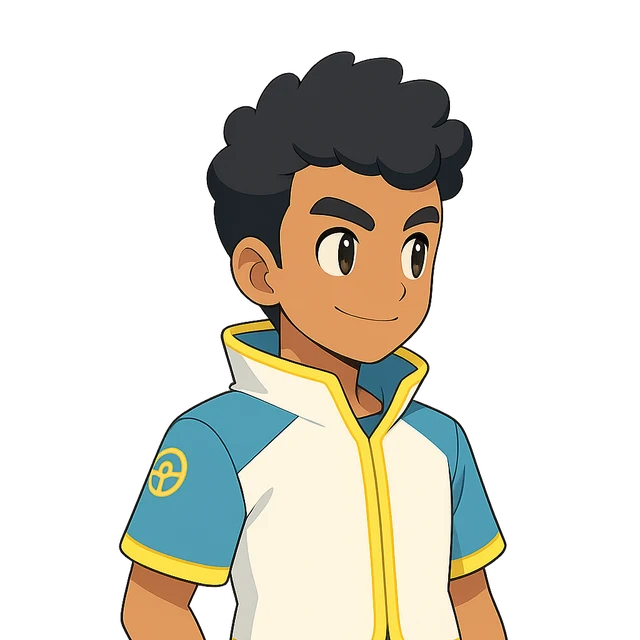
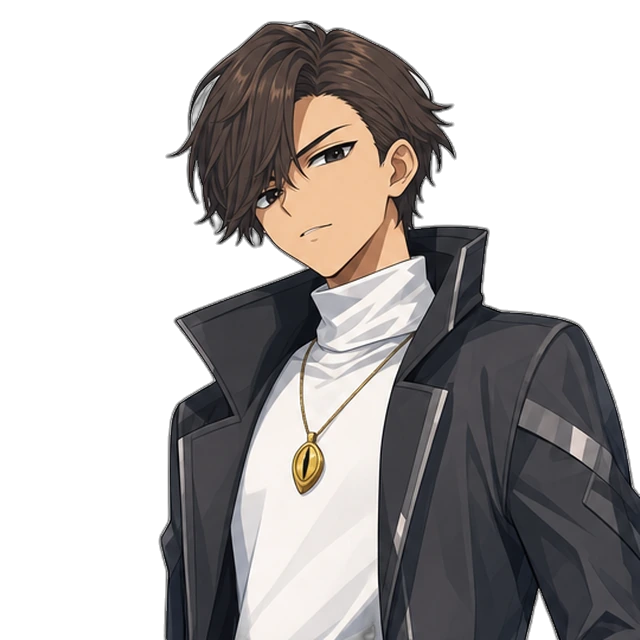
白い都の坂で主人公が隠れないように・レンの顔絵を新デザインに・仲間の演出は一度だけ・進化と融合の条件を勝負で表示・融合を覚えた演出
- 坂の見晴らしカメラを高く近くに、柱廊を短く、透かしを広く
- レン(dimi)の会話の顔を ren_決定.png から作り直し
- 仲間に入る演出は抜けて戻っても二度と出さない
- 進化ボタン・詳細・進化のマスで、覚えていないわけ(Lv6で覚える等)を出す
- 連れの子(アレクのクロッコ)もLvで覚えた進化を使える
- 物語の勝負で初めて使える融合を、勝負の前に演出で知らせる

Claude-Session: https://claude.ai/code/session_01GpeKDhxNssKAGTgsZyP1St

diff --git a/proto/world_v2/proto/greece_town.html b/proto/world_v2/proto/greece_town.html
@@ -510,7 +510,7 @@ function patchLit(m,key,o){ o=o||{};
     sh.uniforms.uHeroF=U.uHero; sh.uniforms.uResY=U.uResY;
     sh.fragmentShader=sh.fragmentShader.replace('#include <common>','#include <common>\nvarying vec3 vWq; uniform vec3 uHeroF; uniform float uResY;').replace('#include <clipping_planes_fragment>',`#include <clipping_planes_fragment>
       { float cd=distance(vWq,cameraPosition); vec3 ch=uHeroF+vec3(0.0,0.8,0.0)-cameraPosition; float L=length(ch); vec3 dir=ch/max(L,0.001); float t=dot(vWq-cameraPosition,dir);
-        float seg=length(vWq-cameraPosition-dir*clamp(t,0.0,L)); float k=max(1.0-smoothstep(1.2,3.2,cd), (t>0.0&&t<L-2.2)?(1.0-smoothstep(1.3,3.0,seg))*smoothstep(-0.2,1.0,vWq.y-uHeroF.y):0.0); k=max(k,(1.0-smoothstep(0.04,0.2,gl_FragCoord.y/uResY))*smoothstep(1.6,3.2,vWq.y-uHeroF.y)*0.92);
+        float seg=length(vWq-cameraPosition-dir*clamp(t,0.0,L)); float k=max(1.0-smoothstep(1.2,3.2,cd), (t>0.0&&t<L-1.1)?(1.0-smoothstep(1.6,3.4,seg))*smoothstep(-0.2,1.0,vWq.y-uHeroF.y):0.0); k=max(k,(1.0-smoothstep(0.04,0.2,gl_FragCoord.y/uResY))*smoothstep(1.6,3.2,vWq.y-uHeroF.y)*0.92);
         ${o.noDither?'k=0.0;':''}if(k>0.0){ vec2 q=mod(floor(gl_FragCoord.xy),4.0); float b=mod(q.x*8.0+q.y*4.0+mod(q.x+q.y,2.0)*2.0+q.x*q.y,16.0)/16.0; if(k*0.9>b) discard; } }`);
     sh.fragmentShader=sh.fragmentShader.replace('* getShadowMask()','* (0.30+0.70*getShadowMask())');
     if(o.front) sh.fragmentShader=sh.fragmentShader.split('gl_FrontFacing').join('true');
@@ -2286,8 +2286,7 @@ let EVOFX=false, evoFxT=0;
 function evoFxTick(dt){ evoFxT-=dt; if(evoFxT>0) return; evoFxT=0.5; if(EVOFX||STORY||TRANS||ENC||PAUSED||!SAVE||TESTMODE&&!SAVE) return; const P=window.Progress; if(!P||!P.evoAvail||!P.state||!P.state()) return;
   const av=P.evoAvail(); if(!SAVE.evoFx){ SAVE.evoFx={}; for(const id of av) SAVE.evoFx[id]=1; return; }   // 前からのセーブ: 今できる分は見せたことにする
   const id=av.find(x=>!SAVE.evoFx[x]); if(id==null) return; SAVE.evoFx[id]=1; saveGame(); evoFxShow(id); }
-function evoFxShow(to){ const P=window.Progress; const ln=P.lineOf(to); const from=ln[Math.max(0,ln.indexOf(+to)-1)]; EVOFX=true; const wasP=PAUSED; PAUSED=true; IN.active=false;
-  if(!document.getElementById('evoFxCss')){ const st=document.createElement('style'); st.id='evoFxCss'; st.textContent=`
+function evoFxCss(){ if(document.getElementById('evoFxCss')) return; const st=document.createElement('style'); st.id='evoFxCss'; st.textContent=`
 #evoFx{position:fixed;inset:0;z-index:9000;display:flex;flex-direction:column;align-items:center;justify-content:center;gap:18px;background:radial-gradient(circle at 50% 45%,#3a2a10 0%,#120c1e 55%,#05040a 100%);opacity:0;transition:opacity .35s;overflow:hidden;font-family:inherit}
 #evoFx.on{opacity:1}
 #evoFx .st{position:relative;width:min(62vw,300px);height:min(62vw,300px)}
@@ -2309,6 +2308,27 @@ function evoFxShow(to){ const P=window.Progress; const ln=P.lineOf(to); const fr
 @keyframes evW{0%{opacity:.95}100%{opacity:0}}
 @keyframes evT{to{opacity:1}}
 @keyframes evS{0%{opacity:0;transform:translate(0,0) scale(.4)}20%{opacity:1}100%{opacity:0;transform:translate(var(--dx),var(--dy)) scale(1)}}`; document.head.appendChild(st); }
+// ---- 融合を覚えた時の演出(2026-11-17 オーナー「融合を覚えたというのもエフェクトを出さないと。実際にできるかわからない」) ----
+//  物語の勝負で初めて使える融合(GR_FIGHTS の fuse)を、勝負の前に一度だけ見せる。素材2体が寄って光り、融合体になる。見せた印=SAVE.fuseFx
+function fuseFxShow(fid){ return new Promise(res=>{ const P=window.Progress; const m=P&&P.mon(fid); if(!m){ res(); return; } const mats=(m.recipe3||m.recipe||m.fusion_from||[]).slice(0,3); if(mats.length<2){ res(); return; }
+  evoFxCss(); if(!document.getElementById('fuseFxCss')){ const st=document.createElement('style'); st.id='fuseFxCss'; st.textContent=`
+#evoFx .fm{position:absolute;top:18%;width:56%;height:56%;object-fit:contain}
+#evoFx .fl{left:-14%;animation:fuL 2.4s ease-in forwards}
+#evoFx .fr{right:-14%;animation:fuR 2.4s ease-in forwards}
+@keyframes fuL{0%{transform:translateX(0)}55%{transform:translateX(18%);filter:brightness(1.5) drop-shadow(0 0 16px #9fd8ff)}88%{transform:translateX(38%);filter:brightness(0) invert(1);opacity:1}100%{transform:translateX(40%);filter:brightness(0) invert(1);opacity:0}}
+@keyframes fuR{0%{transform:translateX(0)}55%{transform:translateX(-18%);filter:brightness(1.5) drop-shadow(0 0 16px #ffb0e0)}88%{transform:translateX(-38%);filter:brightness(0) invert(1);opacity:1}100%{transform:translateX(-40%);filter:brightness(0) invert(1);opacity:0}}`; document.head.appendChild(st); }
+  EVOFX=true; const wasP=PAUSED; PAUSED=true; IN.active=false; const img=id=>P.img(id);
+  const W=document.createElement('div'); W.id='evoFx'; W.style.background='radial-gradient(circle at 50% 45%,#16304a 0%,#120c1e 55%,#05040a 100%)';
+  const nm=mats.map(x=>monName(x));
+  W.innerHTML=`<div class="st"><div class="ray"></div><img class="fm fl" src="${img(mats[0])}" alt=""><img class="fm fr" src="${img(mats[1])}" alt=""><img class="b" src="${img(fid)}" alt=""><div class="ring"></div></div><div class="tx">${nm.join('と')}の<br>融合を覚えた！<small>勝負の中で、2段目の${nm.join('と')}を<br>となりのマスに重ねると ${monName(fid)}になる<br>（どちらかが その勝負の中で進化していること）</small></div><div class="go">タップでとじる</div><div class="wh"></div>`;
+  const stg=W.querySelector('.st'); for(let k=0;k<22;k++){ const d=document.createElement('i'); d.className='sp'; const a=Math.random()*Math.PI*2, r=90+Math.random()*120; d.style.cssText=`left:50%;top:50%;--dx:${Math.cos(a)*r}px;--dy:${Math.sin(a)*r}px;animation:evS ${1+Math.random()*0.8}s ease-out ${2.2+Math.random()*0.5}s forwards`; stg.appendChild(d); }
+  document.body.appendChild(W); requestAnimationFrame(()=>W.classList.add('on')); setTimeout(()=>{ const bi=W.querySelector('.b'); if(bi) bi.classList.add('col'); },2700);
+  try{ if(typeof seBeep==='function') seBeep('lvup'); }catch(e){}
+  const t0=performance.now(); const close=e=>{ if(e) e.stopPropagation(); if(performance.now()-t0<3600) return; W.classList.remove('on'); setTimeout(()=>{ W.remove(); EVOFX=false; PAUSED=wasP; LAST=performance.now(); res(); },360); };
+  for(const ev of ['pointerdown','touchstart']) W.addEventListener(ev,e=>e.stopPropagation()); W.addEventListener('click',close); }); }
+async function grFuseFx(F){ if(!SAVE||!F||!F.fuse||!F.fuse.length) return; SAVE.fuseFx=SAVE.fuseFx||{}; for(const fid of F.fuse){ if(SAVE.fuseFx[fid]) continue; SAVE.fuseFx[fid]=1; saveGame(); await fuseFxShow(fid); } }
+function evoFxShow(to){ const P=window.Progress; const ln=P.lineOf(to); const from=ln[Math.max(0,ln.indexOf(+to)-1)]; EVOFX=true; const wasP=PAUSED; PAUSED=true; IN.active=false;
+  evoFxCss();
   const W=document.createElement('div'); W.id='evoFx'; const img=id=>P.img(id);
   W.innerHTML=`<div class="st"><div class="ray"></div><img class="a" src="${img(from)}" alt=""><img class="b" src="${img(to)}" alt=""><div class="ring"></div></div><div class="tx">${monName(from)}は ${monName(to)}への<br>進化を覚えた！<small>勝負の中で ${monName(to)}に進化できる</small></div><div class="go">タップでとじる</div><div class="wh"></div>`;
   const stg=W.querySelector('.st'); for(let k=0;k<22;k++){ const d=document.createElement('i'); d.className='sp'; const a=Math.random()*Math.PI*2, r=90+Math.random()*120; d.style.cssText=`left:50%;top:50%;--dx:${Math.cos(a)*r}px;--dy:${Math.sin(a)*r}px;animation:evS ${1+Math.random()*0.8}s ease-out ${2.2+Math.random()*0.5}s forwards`; stg.appendChild(d); }
@@ -2664,9 +2684,9 @@ const ST={el:$('st'),bg:$('stBg'),L:$('stL'),R:$('stR'),R2:$('stR2'),ph:$('stPh'
 const PDIR='../v3/portraits/';
 const E7=['normal','smile','surprised','serious','sad','angry','hurt'];
 const FACES={hero_m:E7,hero_f:E7,genichi:['normal'],misaki:['normal','smile'],hana:['normal'],ryo:['normal'],
-  elly:['normal','smile','surprised','sad','serious'],alek:['normal'],dimi:['normal','smile','surprised','serious'],elena:['normal','smile','serious'],tasos:['normal','smile','surprised'],petra:['normal','smile','surprised'],stavros:['normal','smile','serious'],
+  elly:['normal','smile','surprised','sad','serious'],alek:['normal'],dimi:['normal'],elena:['normal','smile','serious'],tasos:['normal','smile','surprised'],petra:['normal','smile','surprised'],stavros:['normal','smile','serious'],
   kasia:['normal'],zeno:['normal'],hao:['normal'],tarik:['normal'],victor:['normal'],nina:['normal'],marco:['normal']};   // 2026-11-08 アニメ側の立ち絵(キャラ立ち絵_追加_20261108)を v3/portraits に足した(白い背景を外して胸から上)
-// 立ち絵の鍵: elly=エリー(anime/chars/elly)・alek=アレク(anime/chars/alek)・dimi=レン(絵は dimi のまま)・stavros=ヤニス(絵は仮)。patch/log/x は絵なし(名前だけ)
+// 立ち絵の鍵: elly=エリー(anime/chars/elly)・alek=アレク(anime/chars/alek)・dimi=レン(絵は11/17に新デザインの顔へ)・stavros=ヤニス(絵は仮)。patch/log/x は絵なし(名前だけ)
 const WHO={genichi:'じいちゃん',misaki:'母',hana:'ハナ',ryo:'父',elly:'エリー',alek:'アレク',dimi:'レン',elena:'クロエ博士',tasos:'タソス',petra:'ペトラ',stavros:'ヤニス',patch:'パッチ',log:'ログ',mihalis:'ミハリス',sophia:'ソフィア',bella:'ベラドンナ',yusuf:'ユスフ',hao:'ハオ',lifa:'リーファ',ransom:'ランサム',shifu:'師範',x:''};   // 中国編(2026-10-26): ハオ・リーファ・ランサム・師範は絵なし(名前だけ)
 Object.assign(WHO,{nadia:'ナディア',mira:'ミラ',joe:'ジョー',liv:'リヴ',bot:'ボット',yuki:'ユキ',haru:'ハル',adrian:'スペクター'});   // 北欧編(2026-10-27): 絵なし(名前だけ)
 const DEFN=g=>'ヤマト';   // 主人公はヤマトだけ(女の子版 hero_f は使わない)
@@ -3624,7 +3644,7 @@ window.GR_FR_DBG=()=>GR_FRS&&{x:GR_FRS.x,z:GR_FRS.z,st:GR_FRS.st,pi:GR_FRS.pi,n:
 const GR_CREW={elly:ep=>(ep>=2&&ep<=13)||ep>=18, alek:ep=>ep>=5};
 function grCrewTick(s){ if(!SAVE||!s||EVOFX||STORY||TRANS||ENC||PAUSED) return; const ep=+s.ep||0; if(!ep) return;
   if(!SAVE.crew){ SAVE.crew={}; for(const w in GR_CREW) if(GR_CREW[w](ep)) SAVE.crew[w]=1; return; }   // 前からのセーブ: 今の連れは見せたことにする
-  for(const w in GR_CREW){ const inn=GR_CREW[w](ep); if(!inn&&SAVE.crew[w]){ delete SAVE.crew[w]; continue; }
+  for(const w in GR_CREW){ const inn=GR_CREW[w](ep);   // 一度見せたら二度と出さない(抜けて戻っても出さない 2026-11-17 オーナー「毎回ださなくてもわかる」)
     if(inn&&!SAVE.crew[w]&&(w!=='elly'||grEllyWith(s))){ SAVE.crew[w]=1; saveGame(); crewFxShow(w); return; } } }
 function crewFxShow(who){ const A=GR_GUIDE_ART[who]; if(!A) return; EVOFX=true; const wasP=PAUSED; PAUSED=true; IN.active=false;
   if(!document.getElementById('crewFxCss')){ const st=document.createElement('style'); st.id='crewFxCss'; st.textContent=`
@@ -3685,6 +3705,7 @@ function grBond(){ if(!SAVE) return; const f=SAVE.flags;
 async function grFight(s){ const F=s.F; F._ep=s.ep; const say=GR_SAY[s.ep];
   if(!SAVE.flags.gr_bond) grBond();
   if(say&&!GF()['seen_'+s.id]){ bgmCue('idea'); await runScene([{w:say[0],f:say[1],t:say[2]}],{field:true}); SAVE.flags['seen_'+s.id]=1; }
+  await grFuseFx(F);   // 2026-11-17 初めて使える融合を、勝負の前に演出で知らせる
   GR_TEAM=await grPickTeam(s);
   const stop=grInbStart(s.ep);
   try{
@@ -3733,7 +3754,7 @@ function grFightOpt(opt,F){ const lv=F.lv; if(!opt.player) opt.player={}; let pa
     for(const e of EX){ let q=MN(e.mid), g=0; while(q&&q.evolves_to!=null&&g++<4){ if(!ow.has(+q.evolves_to)) break; exOwn.push(+q.evolves_to); q=MN(q.evolves_to); } } }
   party.length=0; L.forEach(p=>party.push(p)); EX.forEach(p=>party.push(p));
   opt.player.owned=[...new Set(L.map(p=>p.mid).concat(F.own||[]).concat(EX.map(p=>p.mid)).concat(exOwn))];
-  { const P=window.Progress; if(P&&P.formsList&&P.lineOf&&P.knowsForm&&!(SAVE&&SAVE.unlock&&!SAVE.unlock.evo)){ const lines=new Set(L.concat(EX).map(p=>+P.baseOf(+p.mid))); const add=P.formsList().filter(id=>lines.has(+P.baseOf(+id))&&P.knowsForm(id)); if(add.length) opt.player.owned=[...new Set(opt.player.owned.concat(add))]; } }   // 2026-11-17 オーナー「Lv12でフォルレオンに進化したのに進化できない」: 物語の勝負でも、Lvで覚えた進化の姿は使える opt.player.fusionKnown=(F.fuse||[]).slice(); opt.player.stageFree=true;
+  { const P=window.Progress; if(P&&P.formsList&&P.lineOf&&P.knowsForm&&!(SAVE&&SAVE.unlock&&!SAVE.unlock.evo)){ const lines=new Set(L.concat(EX).map(p=>+P.baseOf(+p.mid))); const add=P.formsList().filter(id=>lines.has(+P.baseOf(+id))&&P.knowsForm(id)); for(const p of L) if(P.evoLv) for(const id of P.lineOf(+p.mid)){ const nd=P.evoLv(id); if(nd&&(+p.lv||1)>=nd) add.push(+id); }   /* 2026-11-17 オーナー「クロッコがLvを超えても進化しなかった」: 連れの子(アレクのクロッコ等)もLvで覚えた進化は使える */ if(add.length) opt.player.owned=[...new Set(opt.player.owned.concat(add))]; } }   // 2026-11-17 オーナー「Lv12でフォルレオンに進化したのに進化できない」: 物語の勝負でも、Lvで覚えた進化の姿は使える opt.player.fusionKnown=(F.fuse||[]).slice(); opt.player.stageFree=true;
   opt.fusionUnlocked=!!(F.fuse&&F.fuse.length); opt.tripleUnlocked=false; opt.startStage=1; opt.alignMinions=true;
   opt.budget=L.reduce((a,p)=>a+grStageOf(p.mid),0)+EX.reduce((a,p)=>a+grStageOf(p.mid),0); const adj=grTeamAdj(F, EX.length);
   const bd=grBoard(F.board,F.look); if(bd){ opt.terrainTheme=bd; opt.backdrop=undefined; }
@@ -3849,7 +3870,7 @@ function grInit(){ Object.assign(SC,GR_SC);
   { const _at=arriveTown; arriveTown=async function(){ await _at(); grArrive(); }; }   // 第1話: 村に下りたら、そのまま続きを流す
   for(const m of new Set(GR_STEPS.map(s=>s.map))) AREA_RULE[m+':*']=f=>{ const s=grCur(); return (s&&grHere(s))?grRun:null; };
   window.GR_DBG={ cur:()=>{ const s=grCur(); return s&&{id:s.id,ep:s.ep,map:s.map,at:s.at,kind:s.kind}; }, steps:GR_STEPS, run:()=>grRun(), here:()=>grHere(grCur()), obj:()=>grObjText(GF()), retry:()=>GR_RETRY, art:GR_GUIDE_ART, elly:()=>GR_ELLY, onScreen:(x,z)=>grOnScreen(x,z), auto:(v)=>{ AUTO=v; }, cast:(w,x,z)=>{ const m=grSprite(w); grPlace(m,x,z); return m; },
-    skipTo:(ep)=>{ const f=GF(); f.g22=1; f.g22b=1; f.g22c=1; for(const s of GR_STEPS){ if(s.ep>=ep) break; f[s.id]=1; if(s.last) f['a'+pad2g(s.ep)]=1; } f.gr_bond=1; if(ep>4&&SAVE.unlock) SAVE.unlock.evo=true; if(ep>11&&SAVE.unlock) SAVE.unlock.fusion=true; saveGame(); objUpdate(); } }; }
+    fuseFx:(id)=>fuseFxShow(id), skipTo:(ep)=>{ const f=GF(); f.g22=1; f.g22b=1; f.g22c=1; for(const s of GR_STEPS){ if(s.ep>=ep) break; f[s.id]=1; if(s.last) f['a'+pad2g(s.ep)]=1; } f.gr_bond=1; if(ep>4&&SAVE.unlock) SAVE.unlock.evo=true; if(ep>11&&SAVE.unlock) SAVE.unlock.fusion=true; saveGame(); objUpdate(); } }; }
 
 // ギリシャ編 22話版の会話の場面(story/gr22_extract.py でアニメの台本から機械で抜き出したもの。ここは直接直さない)
 //  正本: マイドライブ/テリオンアニメ/台本_ギリシャ編_22話版/第NN話.md。直す時は台本を直してから抜き出し直す(python story/gr22_update.py)。

diff --git a/proto/world_v2/battle/battle.js b/proto/world_v2/battle/battle.js
@@ -407,7 +407,12 @@ function canEvolveHere(u){ return !!u && gaugeReady(u) && !u.acted && !u.wait &&
 // (1) 進化のマスに「入った」時(前のマスはその段の進化のマスでない)に1段だけ進化。その姿を覚えている時だけ(敵=今までの進化の決まり aiCanEvo)
 function zoneEvoOK(u, fr, fc){ if(!u || !state.units[u.uid] || u.anc) return false; const m=mon(u); if(m.evolves_to==null || m.role==='fusion') return false;
   if(!evoZoneOK(u,u.r,u.c) || evoZoneOK(u,fr,fc)) return false; return aiCanEvo(u); }
-function zoneEvolve(u, fr, fc){ if(!zoneEvoOK(u,fr,fc)) return false; if(state.stats){ const s=state.stats.zoneEvo||(state.stats.zoneEvo=[0,0]); s[u.owner]++; } return evolveUnit(u,true,'zone'); }
+function evoHintOf(u){ const m=mon(u); try{ const P=(typeof window!=='undefined')&&window.Progress; let cl=0; try{ cl=lvOf(u); }catch(e){} const t=P&&P.evoHint?P.evoHint(m.evolves_to,cl):''; if(t) return t; }catch(e){} return 'まだこの進化を覚えていない'; }
+// 2026-11-17 オーナー「クロッコが進化のマスに行っても進化しなかった・条件がわからない」: 覚えていない子が進化のマスに入った時に わけを出す(1戦に1体1回)
+function zoneEvoWhyNot(u, fr, fc){ if(!u||u.owner!==0||ONLINE||BT.headless||u.anc) return; const m=mon(u); if(m.evolves_to==null||m.role==='fusion') return;
+  if(!evoZoneOK(u,u.r,u.c) || evoZoneOK(u,fr,fc) || aiCanEvo(u)) return; if(u._whyEvo) return; u._whyEvo=1;
+  toast(`${m.name}はまだ進化できない：${evoHintOf(u)}`); }
+function zoneEvolve(u, fr, fc){ if(!zoneEvoOK(u,fr,fc)){ zoneEvoWhyNot(u,fr,fc); return false; } if(state.stats){ const s=state.stats.zoneEvo||(state.stats.zoneEvo=[0,0]); s[u.owner]++; } return evolveUnit(u,true,'zone'); }
 // 2026-10-27 技 v2: 古代テリオン・人(9×9 以上)の戦いも 最後の left ターンは「決戦」(ダメージ +step ずつ)。時間切れを減らすつまみ(人の3段目は STAGE_HUMAN.final のまま)
 const FINAL_V2={left:6, step:0.35}; try{ if(IS_NODE && process.env.FINV2) Object.assign(FINAL_V2, JSON.parse(process.env.FINV2)); }catch(e){}
 function finCfg(){ if(state&&state.sp) return null; if(noTL()) return null; if(BT.sh&&BT.sh.final) return BT.sh.final; if(V2ON() && FINAL_V2 && BT.size!==7 && (BT.kind==='ancient'||BT.kind==='trainer'||BT.kind==='master')) return (T3()&&TACT.final)||FINAL_V2; return null; }   // 戦術v3: かげ・陣地で長引くので 決戦を2ターン早く(TACT.final)
@@ -1288,11 +1293,12 @@ function tryFusion(a, b, r, c){
   const fid=fusionResult(a,b);
   if(fid==null){
     const A=mon(a), B=mon(b);
-    if(A.level<2||B.level<2||A.role==='fusion'||B.role==='fusion') toast('融合は2段目か3段目どうし');
+    if(!campFusionOK()) toast('融合はまだできない（物語で融合を知ってから）');
+    else if(A.level<2||B.level<2||A.role==='fusion'||B.role==='fusion') toast('融合は2段目か3段目どうし（1段目は先に進化させる）');
 
     else if(fusePair(a.mid,b.mid)==null) toast(`${A.name}と${B.name}の組み合わせでは融合できない`);
     else if(!fuseKnownOk(a.owner, fusePair(a.mid,b.mid))) toast('融合の仕方を覚えていない');
-    else if(!(a.evo||b.evo)) toast('どちらかが戦闘中に進化したLv2なら融合できる');
+    else if(!(a.evo||b.evo)) toast('どちらかが、この勝負の中で進化した子なら融合できる');
     else toast(`${A.name}と${B.name}は融合できない`);
     return;
   }
@@ -4984,9 +4990,9 @@ function updateUI(){ if(BT.headless) return;
       if(m.evolves_to!=null){
         const nm=MID[m.evolves_to];
         let ok=true, why='';
-        if(!ONLINE && !STORY.owned.includes(m.evolves_to)){ ok=false; why='(まだ覚えていない)'; }
+        if(!ONLINE && !STORY.owned.includes(m.evolves_to)){ ok=false; why=`(まだ覚えていない：${evoHintOf(sel)})`; }   // 2026-11-17 覚えるわけを出す
         else if(sel.acted){ ok=false; why='(行動済)'; }
-        else if(!gaugeReady(sel)){ ok=false; why=`(闘気${gaugeOf(sel)}/${evoNeed(sel)})`; }
+        else if(!gaugeReady(sel)){ ok=false; why=`(闘気${gaugeOf(sel)}/${evoNeed(sel)}・${m.level===1?'まん中の3列':'相手の陣'}に入っても進化)`; }
         ac.appendChild(mkbt(`${IC('evolve')}進化→${nm.name}${why}`,'evo'+(ok&&BT.guide&&BT.guide.evo?' guide':''), ok, ()=>setMode('evolve')));
       }
       appendFuseBtns();
@@ -5106,6 +5112,21 @@ function detailV2(id, u, unitRow, recipeHtml, fuseHtml, chain, isFusion){ const 
     +(isFusion ? `<div class="sec">入手方法</div><div class="chain">融合でだけ生まれる子</div>` : `<div class="sec">進化ライン</div><div class="chain">${chain.join(' → ')||'進化なし'}</div>`)
     +recipeHtml+fuseHtml
     +`<button class="bt go" id="mb-detailClose" style="margin-top:12px;width:100%">とじる</button>`; }
+// 2026-11-17 オーナー「進化の条件とか融合の条件がわからない」: 味方の子を開くと、この子が今 進化/融合できるか・できないわけ・やり方を出す
+function condHtml(u){ if(!u||u.owner!==0||ONLINE||!state) return ''; const m=mon(u); const L=[];
+  if(m.role!=='fusion' && m.evolves_to!=null && MID[m.evolves_to]){ const nm=MID[m.evolves_to].name;
+    if(aiCanEvo(u)) L.push(`${icTag('evolve')}進化 → <b>${nm}</b>：<span style="color:#9be89b">できる</span>。${m.level===1?'まん中の3列':'相手の陣の3列'}に入る／闘気が${evoNeed(u)}たまる（いま${Math.floor(u.g||0)}）`);
+    else L.push(`${icTag('evolve')}進化 → <b>${nm}</b>：<span style="color:#ff9a8a">まだできない</span>。${evoHintOf(u)}`); }
+  else if(m.role!=='fusion') L.push(`${icTag('evolve')}進化：これ以上は進化しない`);
+  if(!campFusionOK()) L.push(`${icTag('fuse')}融合：まだできない（物語で融合を知ってから）`);
+  else if(m.role==='fusion') {}
+  else if(m.level<2) L.push(`${icTag('fuse')}融合：先に2段目へ進化してから`);
+  else { const pals=[]; const mine=Object.values(state.units).filter(x=>x&&x.owner===0&&x.uid!==u.uid);
+    for(const x of mine){ const f=fusePair(u.mid,x.mid); if(f!=null&&fuseKnownOk(0,f)&&MID[f]) pals.push(`${mon(x).name}と → <b>${MID[f].name}</b>`); }
+    const need=(!fuseRelaxed(0))?'（どちらかが この勝負の中で進化していること）':'';
+    if(pals.length) L.push(`${icTag('fuse')}融合：${pals.join('／')}。仲間の上に動かして重ねる${need}${(u.evo||fuseRelaxed(0))?'':' <span style="color:#ff9a8a">この子はまだ進化していない</span>'}`);
+    else L.push(`${icTag('fuse')}融合：いま盤にいる仲間とは組めない（覚えた組み合わせだけ）`); }
+  return L.length?`<div style="background:#1d2633;border-radius:6px;padding:4px 7px;margin:4px 0;font-size:12px;line-height:1.55">${L.map(t=>`<div>${t}</div>`).join('')}</div>`:''; }
 function showMonsterDetail(id, u){
   const m=MID[id]; const box=$id('detailBox');
   let unitRow='';
@@ -5137,6 +5158,7 @@ function showMonsterDetail(id, u){
   const asMat=[]; for(const k in FUSE_IDX){ const [xa,xb]=k.split(',').map(Number); if(xa===id||xb===id) asMat.push({others:[xa===id?xb:xa], f:FUSE_IDX[k]}); }
   for(const f of FUSE3){ if(f.mats.includes(id)) asMat.push({others:f.mats.filter(x=>x!==id), f:f.id, triple:true}); }
   if(asMat.length){ fuseHtml = `<div class="sec">融合素材になる</div>`+asMat.map(o=>`<div class="chain">+ ${o.others.map(x=>MID[x]?MID[x].name:'?').join('＋')} → <b>${MID[o.f].name}</b>${o.triple?'（3体融合）':''}</div>`).join(''); }
+  unitRow+=condHtml(u);
   if(V2ON()){ box.innerHTML=detailV2(id,u,unitRow,recipeHtml,fuseHtml,chain,isFusion); $id('ovDetail').style.display='flex'; $id('detailClose').onclick=()=>{ $id('ovDetail').style.display='none'; }; return; }
   box.innerHTML =
     `<div class="hd"><img src="${IMG[id]}"><div><h3>${m.name}${m.archetype?` <span style="font-size:12px;color:#9be1ff;font-weight:700">${m.archetype}</span>`:''}</h3>`
@@ -6645,7 +6667,7 @@ const API={ init, startBattle, simulate, TACT, PVE_STAGE, PVE_EVO, get guideLog(
   get MID(){ return MID; }, get MONSTERS(){ return MONSTERS; }, baseFormId:(m)=>baseFormId(m), lineOf:(m)=>lineUpIds(m),
   setAuto(v){ if(v===2||v==='fast'){ BT.fastPref=true; setAutoMode(2); } else if(!!v!==BT.auto) toggleAuto(); return BT.auto; },
   // 確認用(test.html・puppeteer)
-  _dbg:{ get state(){ return state; }, sync(){ syncUnits(); updateUI(); }, busy(){ try{ return !!(animBusy()||(_seq&&!_seq.done)); }catch(e){ return false; } },   // 2026-11-06 演出・技の帯・ダメージの数字が出ている間(物語の勝負の中の吹き出しを待たせる)
+  _dbg:{ get state(){ return state; }, cond(u){ return condHtml(u); }, detail(u){ showMonsterDetail(u.mid,u); }, sync(){ syncUnits(); updateUI(); }, busy(){ try{ return !!(animBusy()||(_seq&&!_seq.done)); }catch(e){ return false; } },   // 2026-11-06 演出・技の帯・ダメージの数字が出ている間(物語の勝負の中の吹き出しを待たせる)
     cam(){ return {uz:CAMV.uz, z:CAMV.cZ, x:CAMV.cx, zz:CAMV.cz, show:CAMV.showZ, ptrs:CAMV.ptrs.size, dragged:CAMV.dragged, pick:pickEnabled}; }, camAll(){ camAll(); }, camZoom(z){ CAMV.uz=z; CAMV.cZ=z; camBtnSync(); },   // 2026-10-30 確認用: 寄りのカメラ
     unitPx(uid){ const s=sprites[uid]; if(!s||!camera) return null; const rc=renderer.domElement.getBoundingClientRect(); const h=(s.m3d&&s.m3d.h)||s.sc||1; const p=s.grp.position; const a=new THREE.Vector3(p.x,p.y,p.z).project(camera), b=new THREE.Vector3(p.x,p.y+h,p.z).project(camera); const c=new THREE.Vector3(p.x+1,p.y,p.z).project(camera); return {w:Math.round((c.x-a.x)*rc.width/2), h:Math.round((b.y-a.y)*rc.height/2), x:Math.round((a.x*0.5+0.5)*rc.width), y:Math.round((-a.y*0.5+0.5)*rc.height)}; }, clear(){ clearSel(); }, tagURL(t,k){ const tx=tagTex(t,k); return tx.image.toDataURL(); },
     cellPx(r,c){ if(!renderer||!camera) return null; const w=cell2world(r,c); const v=new THREE.Vector3(w.x, cellH(r,c)+0.05, w.z).project(camera); const rc=renderer.domElement.getBoundingClientRect(); return [rc.left+(v.x+1)/2*rc.width, rc.top+(-v.y+1)/2*rc.height]; },

diff --git a/proto/world_v2/proto/lib/progress.js b/proto/world_v2/proto/lib/progress.js
@@ -179,6 +179,9 @@ P.fusionKnownList=()=>Object.values(MON).filter(m=>m.role==='fusion'&&P.knowsFus
 P.formsList=()=>{ const pg=prog(); const o=new Set(pg&&pg.forms?Object.keys(pg.forms).map(Number).filter(id=>mon(id)&&!(lvForm(id)&&starterLine(id))):[]); for(const id of lvLineForms()) if(lvFormOk(id)) o.add(id); return [...o]; };
 function lvLineForms(){ const pg=prog(); const bs=new Set(pg?pg.roster.map(c=>baseOf(c.mid)):[]); const o=[]; for(const b of bs) for(const id of lineOf(b)) if(lvForm(id)) o.push(id); return o; }
 P.evoLv=(mid)=>lvForm(mid)?EVO_LV[stageOf(mid)]:null;   // レベルで覚える姿なら その Lv
+P.evoHint=(id,cur)=>{ id=+id; const m=mon(id); if(!m) return ''; if(!(SAVE&&SAVE.unlock&&SAVE.unlock.evo)) return '物語で進化を知るまで、まだできない';   // 2026-11-17 オーナー「進化の条件がわからない」: 覚えていない理由を勝負の中で見せる
+  if(P.knowsForm&&P.knowsForm(id)) return ''; if(lvForm(id)){ const need=EVO_LV[stageOf(id)], b=baseOf(id); return `Lv${need}で覚える・いまLv${cur||lineLv(b)||1}`; }
+  return 'この姿の相手に勝つと覚えることがある'; };
 P.evoAvail=()=>{ if(!(SAVE&&SAVE.unlock&&SAVE.unlock.evo)) return []; return lvLineForms().filter(id=>P.knowsForm(id)); };   // 今 進化できる(レベルで覚えた)姿
 // その姿を手に入れた(野生のリーダー・生み出す・ボス): 2段目以上 → 進化の仕方を覚える / その系統の子がいなければ1段目の子を1体
 function obtain(mid, lv, src){ const out={mid:+mid, forms:[], gave:null}; if(stageOf(mid)>=2) out.forms=learnForm(mid); if(!P.hasLine(mid)) out.gave=P.add(baseOf(mid), lv, src); return out; }
